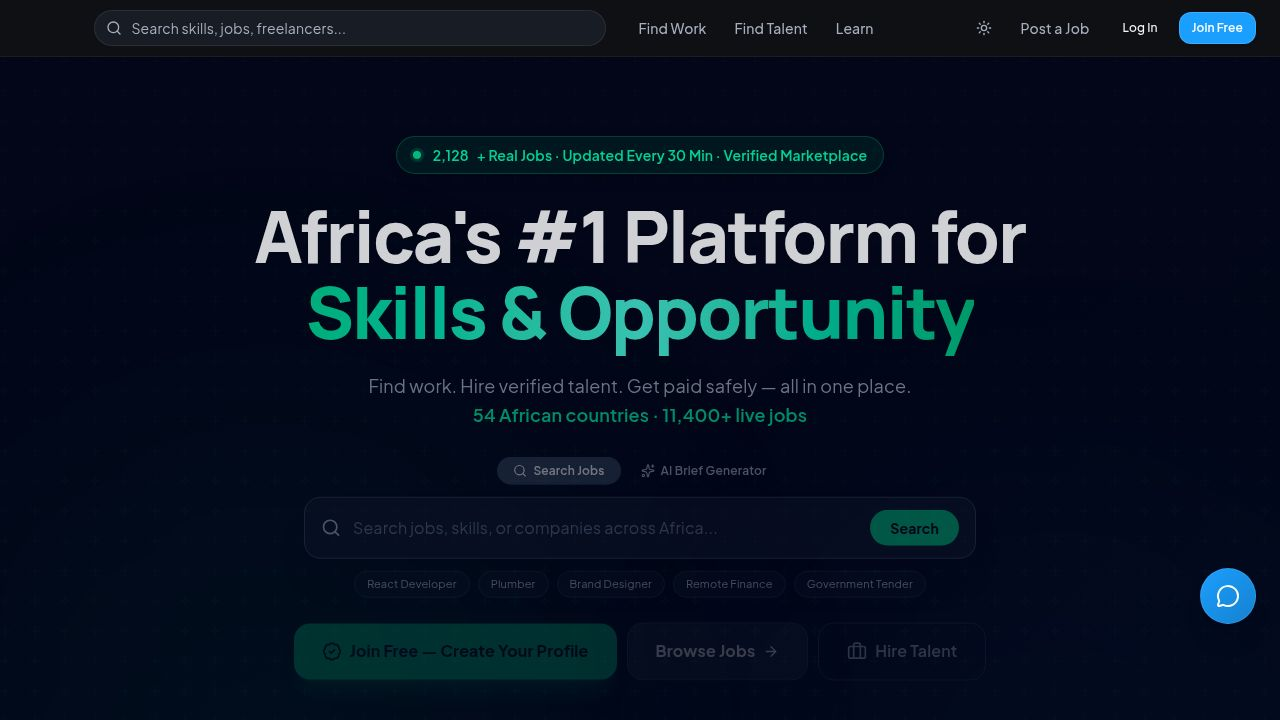
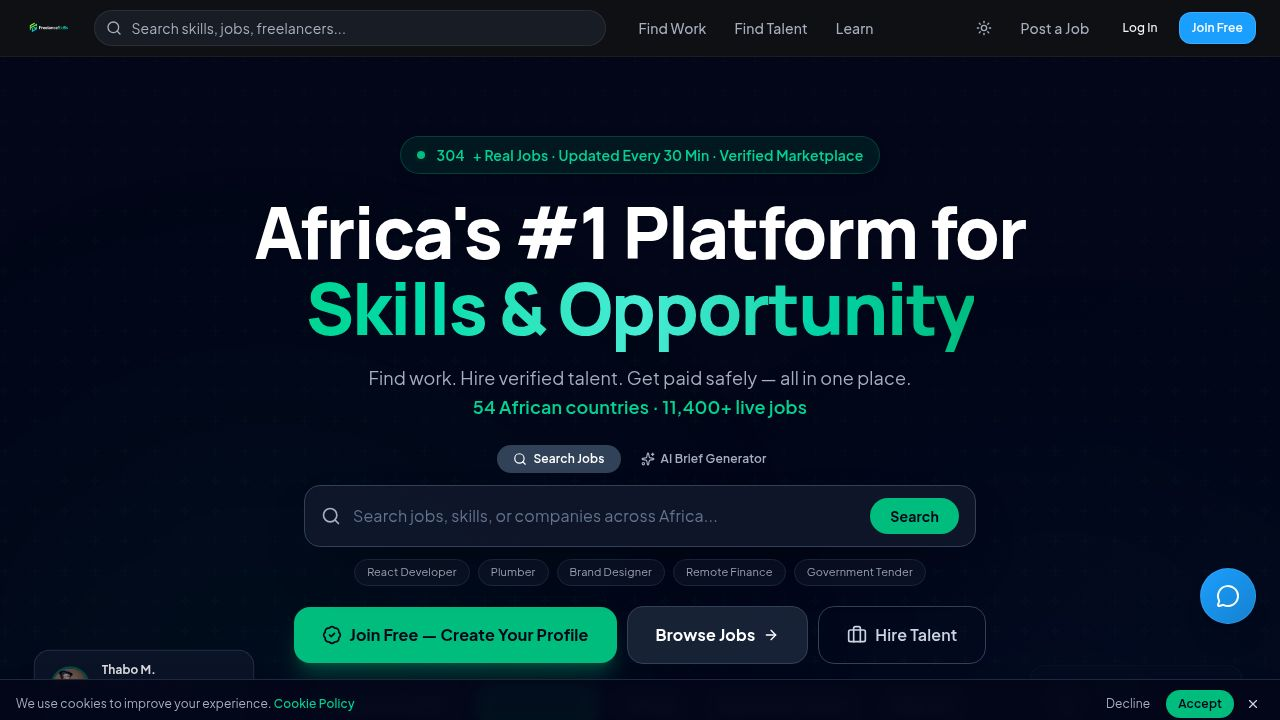
Remove social login options for Facebook and Apple
Removes Facebook and Apple social login buttons and their associated handler functions from the Login and Auth pages.

Replit-Commit-Author: Agent
Replit-Commit-Session-Id: e28a369c-cbc4-426f-9bbe-3f7758cbf97c
Replit-Commit-Checkpoint-Type: full_checkpoint
Replit-Commit-Event-Id: 458ee83f-b41a-4841-9f23-d8deb3eb5523
Replit-Commit-Screenshot-Url: https://storage.googleapis.com/screenshot-production-us-central1/d798790a-e731-40e9-b9f4-1022d8ba1f41/e28a369c-cbc4-426f-9bbe-3f7758cbf97c/wNzt0pY
Replit-Helium-Checkpoint-Created: true

diff --git a/client/src/pages/Login.tsx b/client/src/pages/Login.tsx
@@ -10,7 +10,7 @@ import {
   Download, X, BadgeCheck, Globe, Star, Users, Briefcase, Smartphone
 } from "lucide-react";
 import { Link } from "wouter";
-import { loginWithEmail, loginWithGoogle, loginWithFacebook, loginWithApple } from "@/lib/firebaseAuth";
+import { loginWithEmail, loginWithGoogle } from "@/lib/firebaseAuth";
 import { consumePendingAuthRedirect } from "@/lib/authRedirect";
 
 interface BeforeInstallPromptEvent extends Event {
@@ -145,46 +145,6 @@ export default function Login() {
 
   const handleLinkedInLogin = () => {
     window.location.href = "/api/auth/linkedin";
-  };
-
-  const handleFacebookLogin = async () => {
-    setAuthError(null);
-    setIsGoogleLoading(true);
-    try {
-      const result = await loginWithFacebook();
-      handleSocialAuthSuccess(result);
-    } catch (err: any) {
-      const message =
-        err?.message?.includes("popup-closed-by-user")
-          ? "Sign-in was cancelled."
-          : err?.message?.includes("operation-not-allowed") || err?.message?.includes("not enabled")
-          ? "Facebook sign-in is not yet enabled. Please use Google or email."
-          : err?.message || "Facebook sign-in failed. Please try again.";
-      setAuthError(message);
-      toast({ title: "Facebook sign-in failed", description: message, variant: "destructive" });
-    } finally {
-      setIsGoogleLoading(false);
-    }
-  };
-
-  const handleAppleLogin = async () => {
-    setAuthError(null);
-    setIsGoogleLoading(true);
-    try {
-      const result = await loginWithApple();
-      handleSocialAuthSuccess(result);
-    } catch (err: any) {
-      const message =
-        err?.message?.includes("popup-closed-by-user")
-          ? "Sign-in was cancelled."
-          : err?.message?.includes("operation-not-allowed") || err?.message?.includes("not enabled")
-          ? "Apple sign-in is not yet enabled. Please use Google or email."
-          : err?.message || "Apple sign-in failed. Please try again.";
-      setAuthError(message);
-      toast({ title: "Apple sign-in failed", description: message, variant: "destructive" });
-    } finally {
-      setIsGoogleLoading(false);
-    }
   };
 
   return (
@@ -342,32 +302,6 @@ export default function Login() {
                   </svg>
                   Continue with LinkedIn
                 </button>
-
-                {/* 2-column row: Facebook + Apple */}
-                <div className="grid grid-cols-2 gap-2.5">
-                  <button
-                    onClick={handleFacebookLogin}
-                    disabled={isLoading || isGoogleLoading}
-                    className="flex items-center justify-center gap-2 px-3 py-3 rounded-xl border border-[#1877F2]/40 bg-[#1877F2]/5 hover:bg-[#1877F2]/15 hover:border-[#1877F2]/60 transition-all text-slate-100 font-semibold active:scale-[0.98] text-sm"
-                    data-testid="button-social-facebook"
-                  >
-                    <svg className="w-5 h-5 shrink-0" viewBox="0 0 24 24" fill="#1877F2">
-                      <path d="M24 12.073c0-6.627-5.373-12-12-12s-12 5.373-12 12c0 5.99 4.388 10.954 10.125 11.854v-8.385H7.078v-3.47h3.047V9.43c0-3.007 1.792-4.669 4.533-4.669 1.312 0 2.686.235 2.686.235v2.953H15.83c-1.491 0-1.956.925-1.956 1.874v2.25h3.328l-.532 3.47h-2.796v8.385C19.612 23.027 24 18.062 24 12.073z"/>
-                    </svg>
-                    Facebook
-                  </button>
-                  <button
-                    onClick={handleAppleLogin}
-                    disabled={isLoading || isGoogleLoading}
-                    className="flex items-center justify-center gap-2 px-3 py-3 rounded-xl border border-slate-600 bg-white/[0.03] hover:bg-white/[0.08] hover:border-slate-400 transition-all text-slate-100 font-semibold active:scale-[0.98] text-sm"
-                    data-testid="button-social-apple"
-                  >
-                    <svg className="w-5 h-5 shrink-0" viewBox="0 0 24 24" fill="currentColor">
-                      <path d="M18.71 19.5c-.83 1.24-1.71 2.45-3.05 2.47-1.34.03-1.77-.79-3.29-.79-1.53 0-2 .77-3.27.82-1.31.05-2.3-1.32-3.14-2.53C4.25 17 2.94 12.45 4.7 9.39c.87-1.52 2.43-2.48 4.12-2.51 1.28-.02 2.5.87 3.29.87.78 0 2.26-1.07 3.8-.91.65.03 2.47.26 3.64 1.98-.09.06-2.17 1.28-2.15 3.81.03 3.02 2.65 4.03 2.68 4.04-.03.07-.42 1.44-1.38 2.83M13 3.5c.73-.83 1.94-1.46 2.94-1.5.13 1.17-.34 2.35-1.04 3.19-.69.85-1.83 1.51-2.95 1.42-.15-1.15.41-2.35 1.05-3.11z"/>
-                    </svg>
-                    Apple
-                  </button>
-                </div>
 
               </div>
 

diff --git a/client/src/pages/Auth.tsx b/client/src/pages/Auth.tsx
@@ -13,8 +13,6 @@ import { Eye, EyeOff, Mail, Lock, User, ArrowRight, Loader2, Shield, Zap, Globe,
 import {
   loginWithEmail,
   loginWithGoogle,
-  loginWithFacebook,
-  loginWithApple,
   registerWithEmail,
   sendFirebaseResetEmail,
 } from "@/lib/firebaseAuth";
@@ -255,21 +253,6 @@ export default function Auth() {
     },
   });
 
-  const facebookAuthMutation = useMutation({
-    mutationFn: loginWithFacebook,
-    onSuccess: (result) => handleSocialSuccess(result, "facebook"),
-    onError: (error: Error) => {
-      toast({ title: "Facebook sign-in failed", description: getSocialAuthErrorMessage(error), variant: "destructive" });
-    },
-  });
-
-  const appleAuthMutation = useMutation({
-    mutationFn: loginWithApple,
-    onSuccess: (result) => handleSocialSuccess(result, "apple"),
-    onError: (error: Error) => {
-      toast({ title: "Apple sign-in failed", description: getSocialAuthErrorMessage(error), variant: "destructive" });
-    },
-  });
 
   useEffect(() => {
     setIsLogin(detectAuthMode());
@@ -467,38 +450,6 @@ export default function Auth() {
                       </svg>
                       <span className="flex-1 text-left text-sm">{isLogin ? "Continue with LinkedIn" : "Start with LinkedIn"}</span>
                     </Button>
-
-                    {/* Facebook + Apple in a row */}
-                    <div className="grid grid-cols-2 gap-2">
-                      <Button
-                        type="button"
-                        variant="outline"
-                        className="h-11 rounded-xl font-semibold flex items-center justify-center gap-2 px-3 border-[#1877F2]/30 bg-[#1877F2]/5 hover:bg-[#1877F2]/15 hover:border-[#1877F2]/60 transition-all text-slate-100"
-                        onClick={() => facebookAuthMutation.mutate()}
-                        disabled={facebookAuthMutation.isPending || socialAuthMutation.isPending}
-                        data-testid="button-auth-facebook"
-                      >
-                        <svg className="w-5 h-5 shrink-0" viewBox="0 0 24 24" fill="#1877F2" aria-hidden="true">
-                          <path d="M24 12.073c0-6.627-5.373-12-12-12s-12 5.373-12 12c0 5.99 4.388 10.954 10.125 11.854v-8.385H7.078v-3.47h3.047V9.43c0-3.007 1.792-4.669 4.533-4.669 1.312 0 2.686.235 2.686.235v2.953H15.83c-1.491 0-1.956.925-1.956 1.874v2.25h3.328l-.532 3.47h-2.796v8.385C19.612 23.027 24 18.062 24 12.073z"/>
-                        </svg>
-                        <span className="text-sm">Facebook</span>
-                        {facebookAuthMutation.isPending && <Loader2 className="w-3.5 h-3.5 animate-spin ml-1" />}
-                      </Button>
-                      <Button
-                        type="button"
-                        variant="outline"
-                        className="h-11 rounded-xl font-semibold flex items-center justify-center gap-2 px-3 border-slate-600 bg-white/[0.03] hover:bg-white/[0.08] hover:border-slate-400 transition-all text-slate-100"
-                        onClick={() => appleAuthMutation.mutate()}
-                        disabled={appleAuthMutation.isPending || socialAuthMutation.isPending}
-                        data-testid="button-auth-apple"
-                      >
-                        <svg className="w-5 h-5 shrink-0" viewBox="0 0 24 24" fill="currentColor" aria-hidden="true">
-                          <path d="M18.71 19.5c-.83 1.24-1.71 2.45-3.05 2.47-1.34.03-1.77-.79-3.29-.79-1.53 0-2 .77-3.27.82-1.31.05-2.3-1.32-3.14-2.53C4.25 17 2.94 12.45 4.7 9.39c.87-1.52 2.43-2.48 4.12-2.51 1.28-.02 2.5.87 3.29.87.78 0 2.26-1.07 3.8-.91.65.03 2.47.26 3.64 1.98-.09.06-2.17 1.28-2.15 3.81.03 3.02 2.65 4.03 2.68 4.04-.03.07-.42 1.44-1.38 2.83M13 3.5c.73-.83 1.94-1.46 2.94-1.5.13 1.17-.34 2.35-1.04 3.19-.69.85-1.83 1.51-2.95 1.42-.15-1.15.41-2.35 1.05-3.11z"/>
-                        </svg>
-                        <span className="text-sm">Apple</span>
-                        {appleAuthMutation.isPending && <Loader2 className="w-3.5 h-3.5 animate-spin ml-1" />}
-                      </Button>
-                    </div>
 
                     <div className="relative py-0.5">
                       <div className="absolute inset-0 flex items-center">